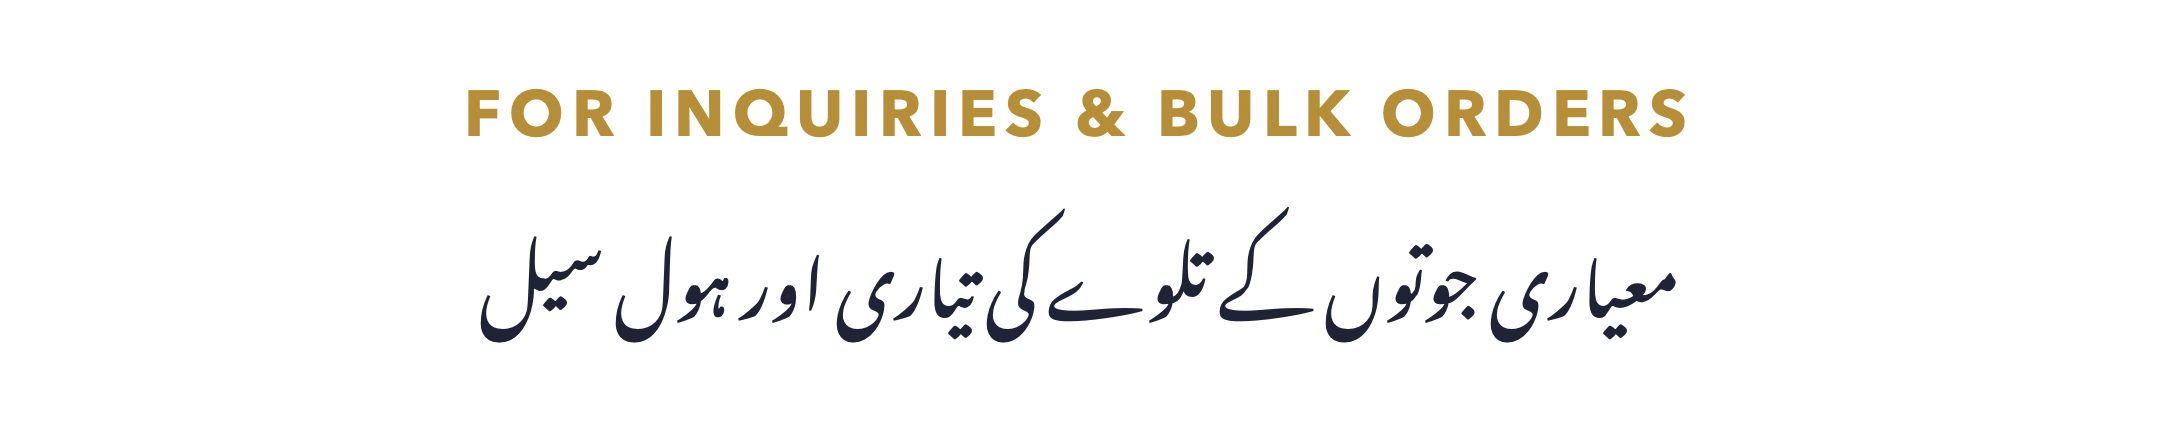
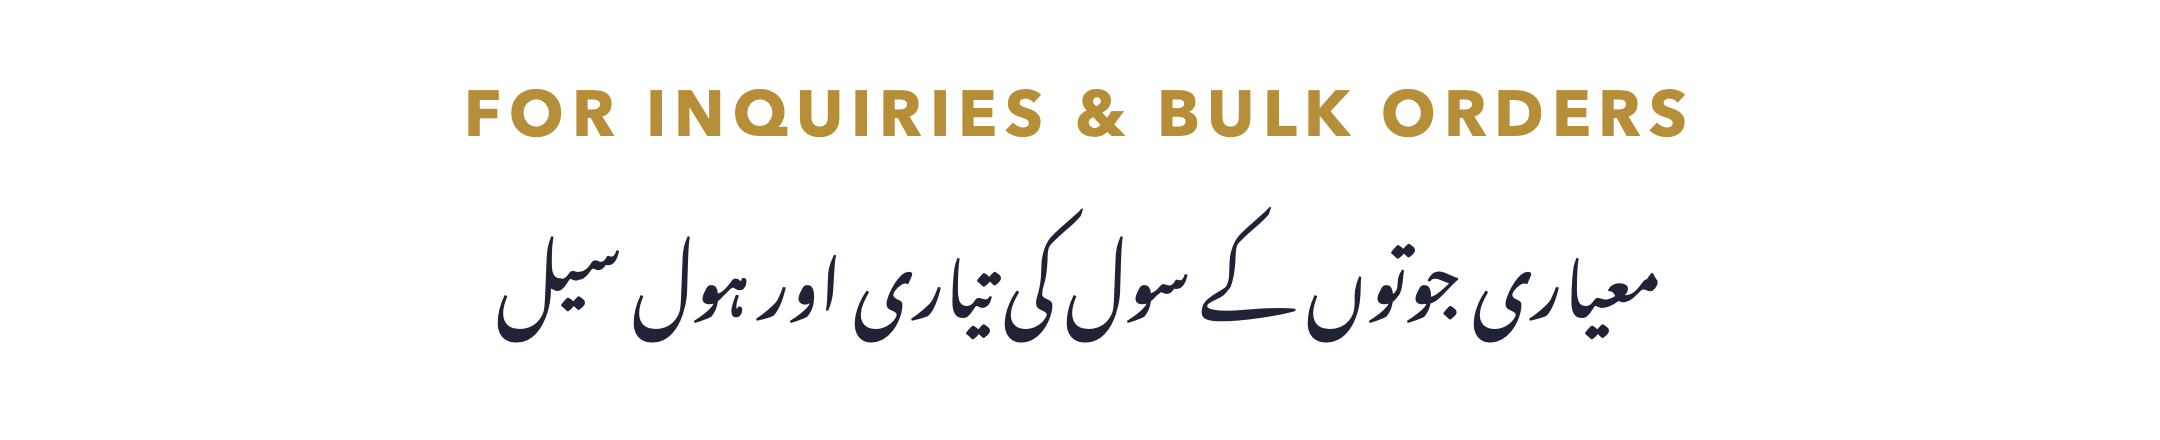
Change talway to sole in outro calligraphy

Changed region(s): [[0.2171, 0.4727, 0.7755, 0.7977], [0.6204, 0.5614, 0.6824, 0.5909]]

diff --git a/build_extra_assets.swift b/build_extra_assets.swift
@@ -1,0 +1,135 @@
+import AppKit
+
+func savePNG(image: NSImage, path: String) {
+    if let tiffData = image.tiffRepresentation,
+       let bitmap = NSBitmapImageRep(data: tiffData),
+       let pngData = bitmap.representation(using: .png, properties: [:]) {
+        try? pngData.write(to: URL(fileURLWithPath: path))
+        print("Saved \(path)")
+    }
+}
+
+// 1. Header Title: "PREMIUM SOLES FOR YOUR REQUIREMENTS"
+func createHeaderTitle() -> NSImage {
+    let width: CGFloat = 1080
+    let height: CGFloat = 260
+    let img = NSImage(size: NSSize(width: width, height: height))
+    img.lockFocus()
+    NSColor.clear.set()
+    NSRect(origin: .zero, size: img.size).fill()
+    
+    // Line 1: "SOLES FOR YOUR"
+    let font1 = NSFont(name: "Avenir Next Heavy", size: 52) ?? NSFont.boldSystemFont(ofSize: 52)
+    let attrs1: [NSAttributedString.Key: Any] = [
+        .font: font1,
+        .foregroundColor: NSColor(red: 70/255.0, green: 75/255.0, blue: 90/255.0, alpha: 1.0),
+        .kern: 3.0
+    ]
+    let str1 = NSAttributedString(string: "SOLES FOR YOUR", attributes: attrs1)
+    let size1 = str1.size()
+    str1.draw(at: NSPoint(x: (width - size1.width)/2, y: 145))
+    
+    // Line 2: "REQUIREMENTS"
+    let font2 = NSFont(name: "Avenir Next Heavy", size: 84) ?? NSFont.boldSystemFont(ofSize: 84)
+    let attrs2: [NSAttributedString.Key: Any] = [
+        .font: font2,
+        .foregroundColor: NSColor(red: 27/255.0, green: 36/255.0, blue: 74/255.0, alpha: 1.0), // Royal navy
+        .kern: 6.0
+    ]
+    let str2 = NSAttributedString(string: "REQUIREMENTS", attributes: attrs2)
+    let size2 = str2.size()
+    str2.draw(at: NSPoint(x: (width - size2.width)/2, y: 40))
+    
+    img.unlockFocus()
+    return img
+}
+
+savePNG(image: createHeaderTitle(), path: "assets/header_title.png")
+
+// 2. Outro Title / Call To Action text
+func createOutroCTA() -> NSImage {
+    let width: CGFloat = 1080
+    let height: CGFloat = 220
+    let img = NSImage(size: NSSize(width: width, height: height))
+    img.lockFocus()
+    NSColor.clear.set()
+    NSRect(origin: .zero, size: img.size).fill()
+    
+    let font1 = NSFont(name: "Avenir Next Bold", size: 32) ?? NSFont.boldSystemFont(ofSize: 32)
+    let attrs1: [NSAttributedString.Key: Any] = [
+        .font: font1,
+        .foregroundColor: NSColor(red: 190/255.0, green: 140/255.0, blue: 30/255.0, alpha: 1.0),
+        .kern: 4.0
+    ]
+    let str1 = NSAttributedString(string: "FOR INQUIRIES & BULK ORDERS", attributes: attrs1)
+    let size1 = str1.size()
+    str1.draw(at: NSPoint(x: (width - size1.width)/2, y: 140))
+    
+    let font2 = NSFont(name: "Noto Nastaliq Urdu", size: 36) ?? NSFont.systemFont(ofSize: 36)
+    let attrs2: [NSAttributedString.Key: Any] = [
+        .font: font2,
+        .foregroundColor: NSColor(red: 30/255.0, green: 35/255.0, blue: 55/255.0, alpha: 1.0)
+    ]
+    let str2 = NSAttributedString(string: "معیاری جوتوں کے سول کی تیاری اور ہول سیل", attributes: attrs2)
+    let size2 = str2.size()
+    str2.draw(at: NSPoint(x: (width - size2.width)/2, y: 40))
+    
+    img.unlockFocus()
+    return img
+}
+
+savePNG(image: createOutroCTA(), path: "assets/outro_cta.png")
+
+// 3. Heritage Gold Seal
+func createHeritageSeal() -> NSImage {
+    let size: CGFloat = 400
+    let img = NSImage(size: NSSize(width: size, height: size))
+    img.lockFocus()
+    NSColor.clear.set()
+    NSRect(origin: .zero, size: img.size).fill()
+    
+    // Outer circle
+    let outerRect = NSRect(x: 10, y: 10, width: size - 20, height: size - 20)
+    let outerPath = NSBezierPath(ovalIn: outerRect)
+    NSColor(red: 212/255.0, green: 160/255.0, blue: 23/255.0, alpha: 1.0).setStroke()
+    outerPath.lineWidth = 7.0
+    outerPath.stroke()
+    
+    // Inner dashed circle
+    let innerRect = NSRect(x: 24, y: 24, width: size - 48, height: size - 48)
+    let innerPath = NSBezierPath(ovalIn: innerRect)
+    let dashes: [CGFloat] = [8.0, 6.0]
+    innerPath.setLineDash(dashes, count: 2, phase: 0.0)
+    NSColor(red: 27/255.0, green: 36/255.0, blue: 74/255.0, alpha: 0.8).setStroke()
+    innerPath.lineWidth = 3.0
+    innerPath.stroke()
+    
+    // Fill circle
+    let fillRect = NSRect(x: 32, y: 32, width: size - 64, height: size - 64)
+    let fillPath = NSBezierPath(ovalIn: fillRect)
+    NSColor(red: 252/255.0, green: 252/255.0, blue: 254/255.0, alpha: 0.96).setFill()
+    fillPath.fill()
+    
+    // Text: SINCE
+    let f1 = NSFont(name: "Avenir Next Medium", size: 22) ?? NSFont.systemFont(ofSize: 22)
+    let a1: [NSAttributedString.Key: Any] = [.font: f1, .foregroundColor: NSColor(red: 100/255.0, green: 110/255.0, blue: 130/255.0, alpha: 1.0), .kern: 3.5]
+    let s1 = NSAttributedString(string: "TRUSTED SINCE", attributes: a1)
+    s1.draw(at: NSPoint(x: (size - s1.size().width)/2, y: 245))
+    
+    // Text: 1980
+    let f2 = NSFont(name: "Avenir Next Heavy", size: 76) ?? NSFont.boldSystemFont(ofSize: 76)
+    let a2: [NSAttributedString.Key: Any] = [.font: f2, .foregroundColor: NSColor(red: 27/255.0, green: 36/255.0, blue: 74/255.0, alpha: 1.0), .kern: 3.0]
+    let s2 = NSAttributedString(string: "1980", attributes: a2)
+    s2.draw(at: NSPoint(x: (size - s2.size().width)/2, y: 155))
+    
+    // Text: OVER 40 YEARS EXCELLENCE
+    let f3 = NSFont(name: "Avenir Next Demi Bold", size: 16) ?? NSFont.systemFont(ofSize: 16)
+    let a3: [NSAttributedString.Key: Any] = [.font: f3, .foregroundColor: NSColor(red: 180/255.0, green: 130/255.0, blue: 23/255.0, alpha: 1.0), .kern: 2.0]
+    let s3 = NSAttributedString(string: "40+ YEARS EXCELLENCE", attributes: a3)
+    s3.draw(at: NSPoint(x: (size - s3.size().width)/2, y: 115))
+    
+    img.unlockFocus()
+    return img
+}
+
+savePNG(image: createHeritageSeal(), path: "assets/heritage_seal.png")
